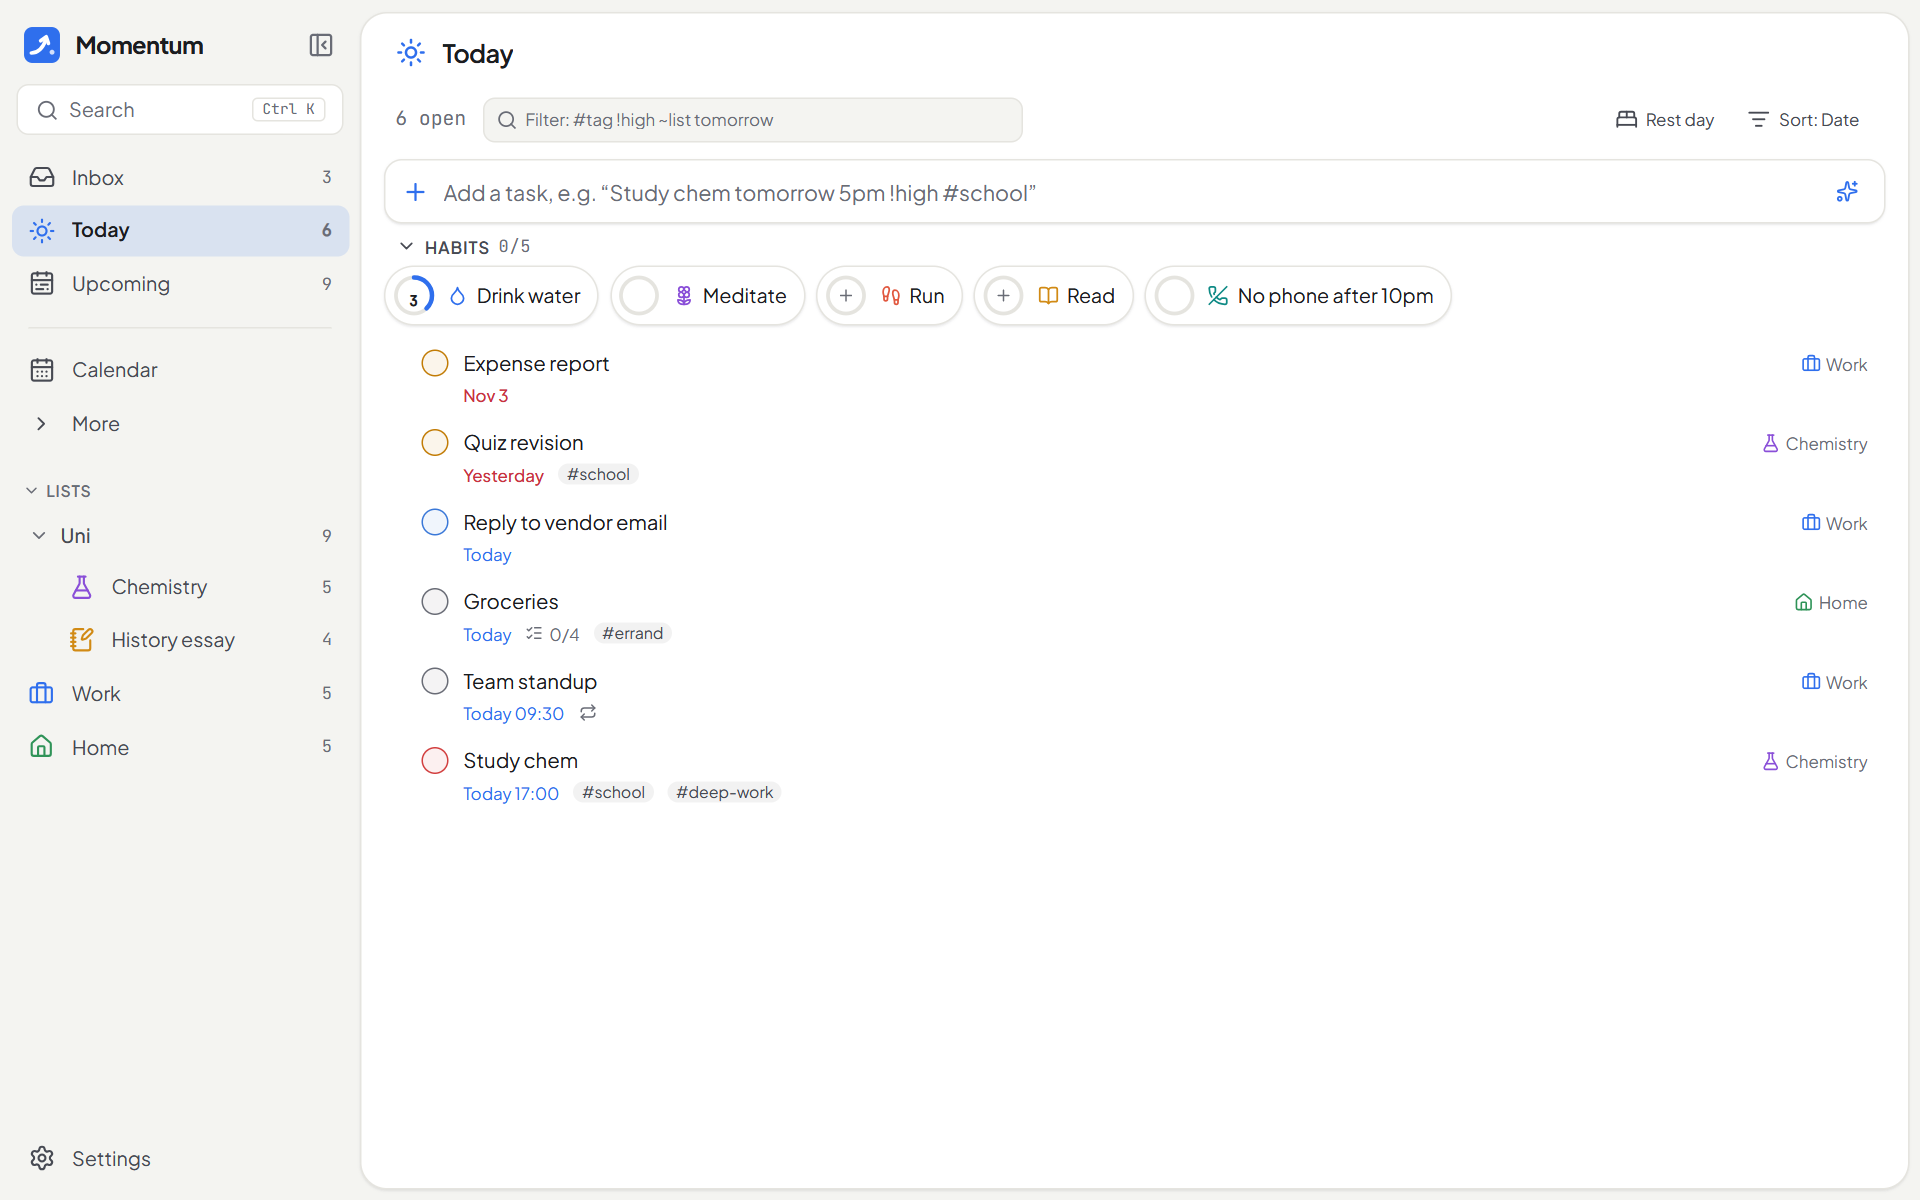
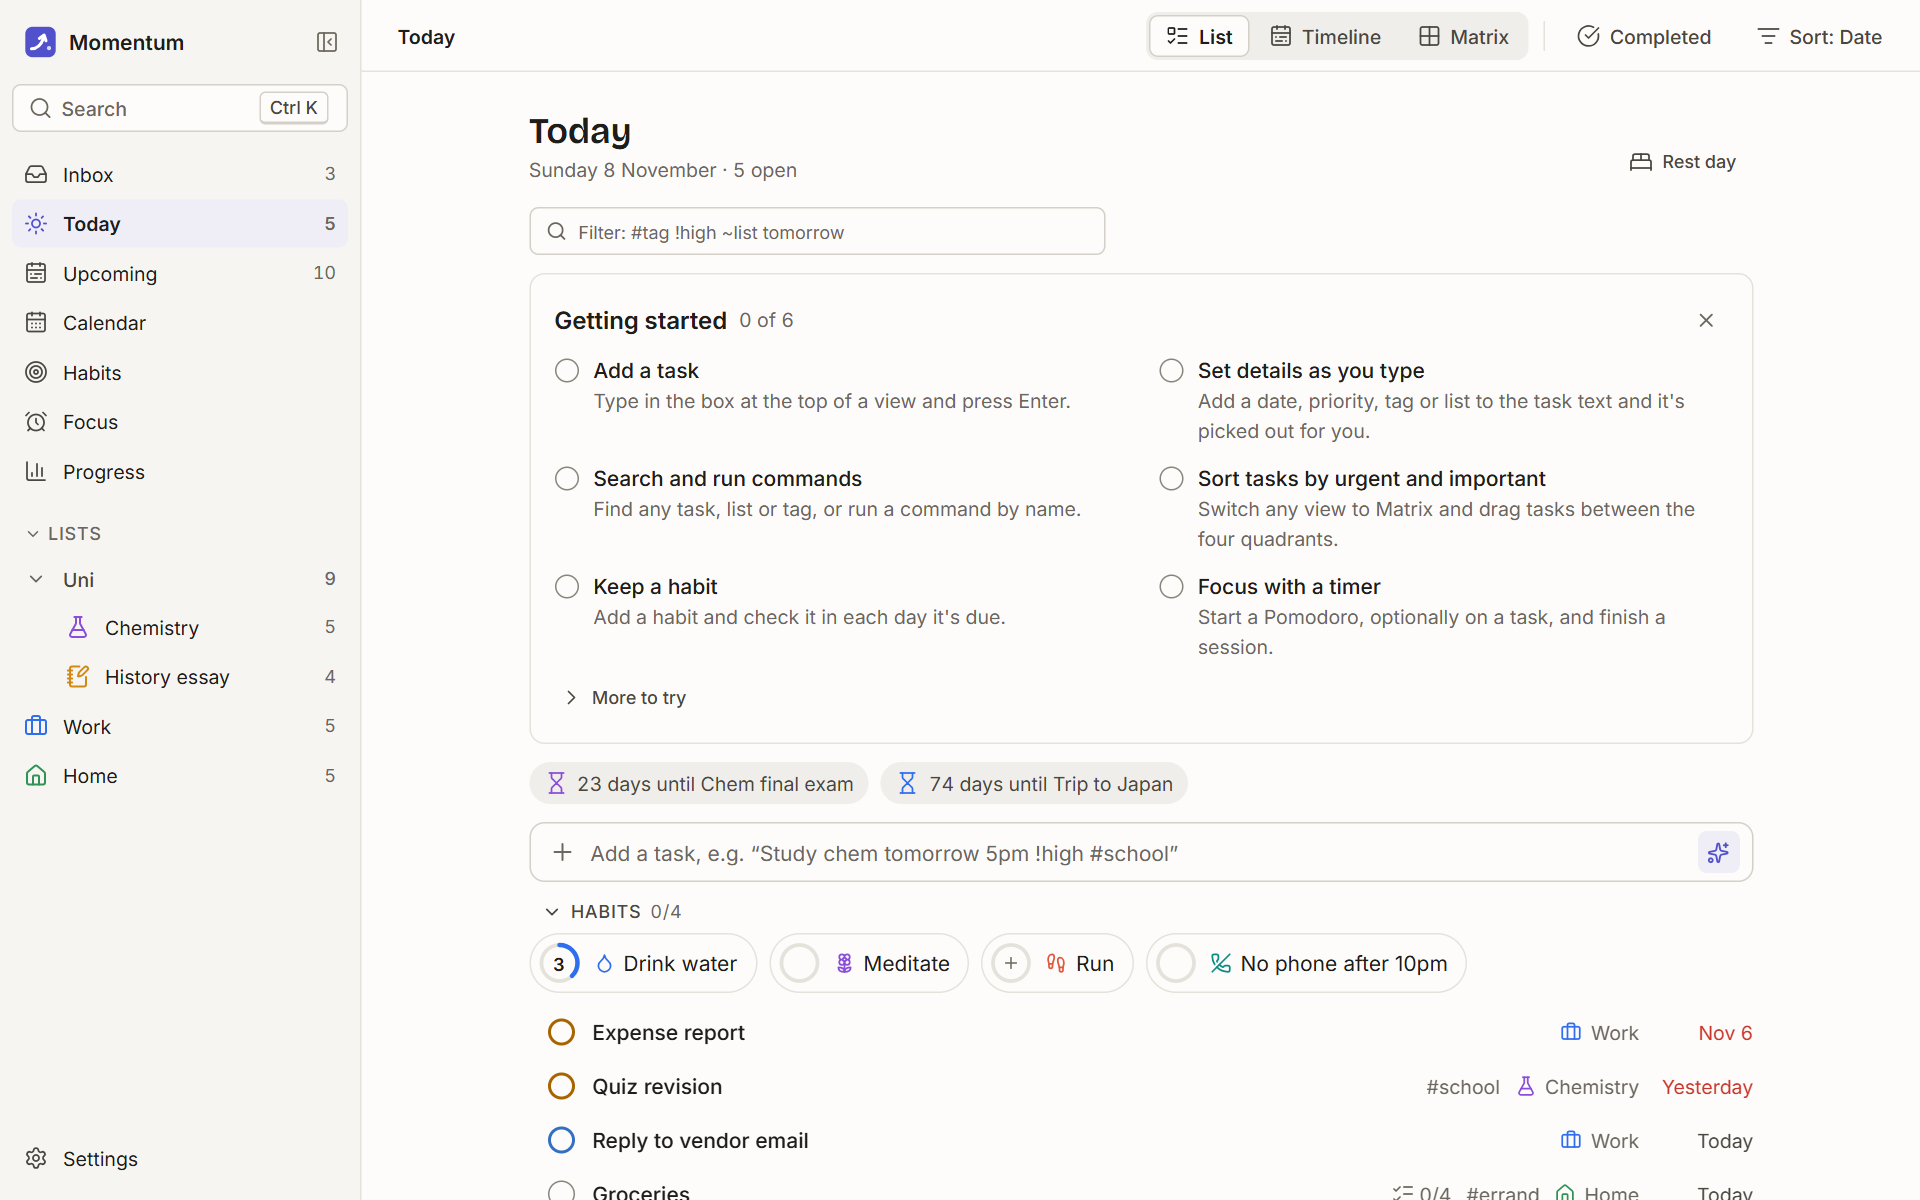
v1.0: screenshots, What's new images and the v1.0.0 changelog
Screenshots follow the new views (Matrix mode, Progress, Settings, a phone
shot, both bar layouts); the stats/dock/topbar images go.

diff --git a/CHANGELOG.md b/CHANGELOG.md
@@ -5,6 +5,25 @@ Each top-level bullet is one item. For a bigger release, give items a screenshot
 `  ![Alt text](whats-new/0.5.0/name.png)`, with the image in `public/whats-new/`. "What's new" then becomes a
 step-by-step tour. Screenshot lines are left out of the GitHub notes.
 
+## v1.0.0
+
+- **A new, calmer look.** Every screen is redrawn: warm neutrals, the Inter typeface, one radius scale, quiet borders instead of shadows, and the accent kept for what you act on. Ten accent colours are tuned for light and dark. Your accent carries over.
+  ![Today in the new look](whats-new/1.0.0/today.png)
+- **One switch for every view.** Any list, Today or Upcoming can show as List, Board, Timeline or Matrix from the toolbar, and Show completed replaces the Logbook. The Matrix is a mode now, so it holds just that view's tasks.
+  ![A list in Matrix mode](whats-new/1.0.0/matrix.png)
+- **Progress replaces Statistics.** Your week, your perfect-day streak, trophies as medals with levels to climb, and the charts, on one page. Friends will appear here once accounts arrive.
+  ![The Progress page](whats-new/1.0.0/progress.png)
+- **Countdowns live in the calendar.** Each countdown became an all-day event, and pinned ones still show as chips on Today.
+- **Sidebar or bar.** Keep the sidebar (left or right), or switch to a single bar at the top or bottom of the window in Settings → Appearance.
+- **Works in a narrow window.** Below about 720px wide, Momentum switches to a phone-style layout with a bottom bar, two-line rows and bigger touch targets.
+  ![The narrow layout](whats-new/1.0.0/today-phone.png)
+- **Quick add finishes your tags and lists.** Type `#` or `~` and pick from matching tags or lists with the arrow keys and Tab.
+- **Subtasks show where they belong.** A subtask sits under its parent when both are in view, and on its own with its parent's name when only it is (a dated subtask in Today, for example).
+- **Help, Getting started and the tour know every feature.** The command palette, the `?` sheet, Settings → Help and Getting started all list the same commands, shortcuts and tokens. Getting started ticks items off as you use them.
+- **Settings, reorganised.** General, Appearance, Notifications & sounds, Voice, Data, Help, and About & updates, with a section list to jump between them.
+- **Starts with your computer.** New installs open Momentum (in the tray) when you log in. Turn it off in Settings → General → Launch at login.
+- **Background images are gone.** The new look keeps content on plain surfaces, so the background image setting was removed.
+
 ## v0.9.1
 
 - **Catch up on everything you missed.** Skipped a few updates? What's new now walks you through every one since your last, newest first. The guided tour covers every feature so far, and you can replay it from Settings or by searching "tour".
